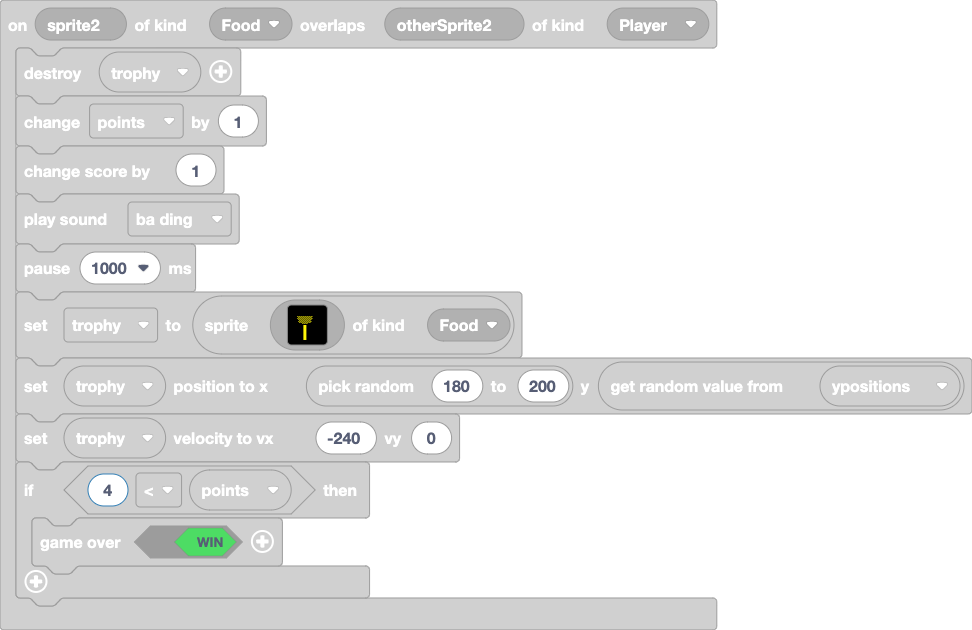
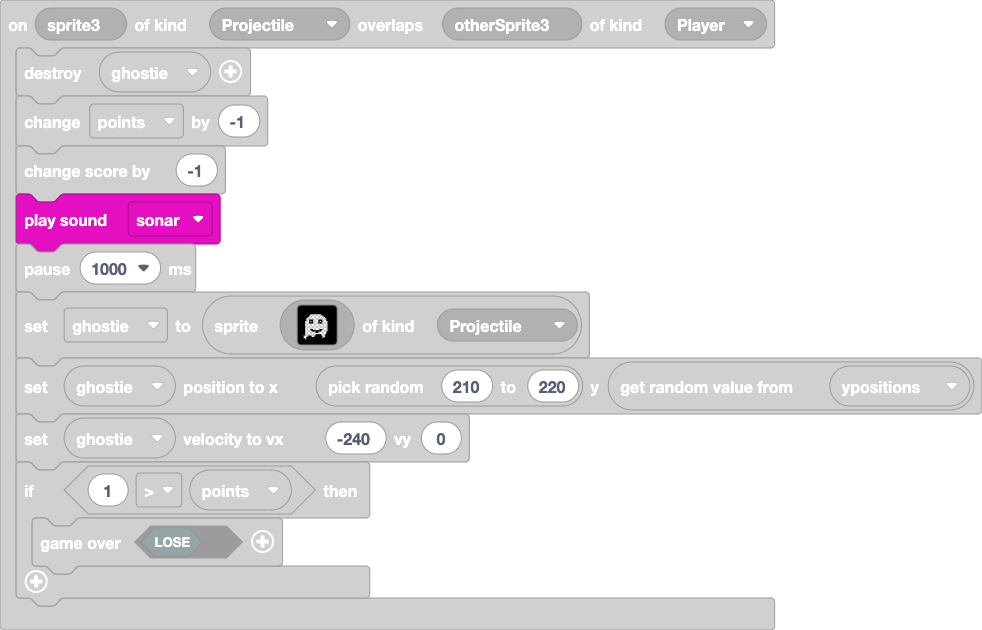
Update main.blocks, main.ts

diff --git a/main.ts b/main.ts
@@ -91,7 +91,7 @@ sprites.onOverlap(SpriteKind.Projectile, SpriteKind.Player, function (sprite3, o
     ghostie.destroy()
     points += -1
     info.changeScoreBy(-1)
-    music.smallCrash.play()
+    music.sonar.play()
     pause(1000)
     ghostie = sprites.create(assets.image`Ghost S`, SpriteKind.Projectile)
     ghostie.setPosition(randint(210, 220), ypositions._pickRandom())
